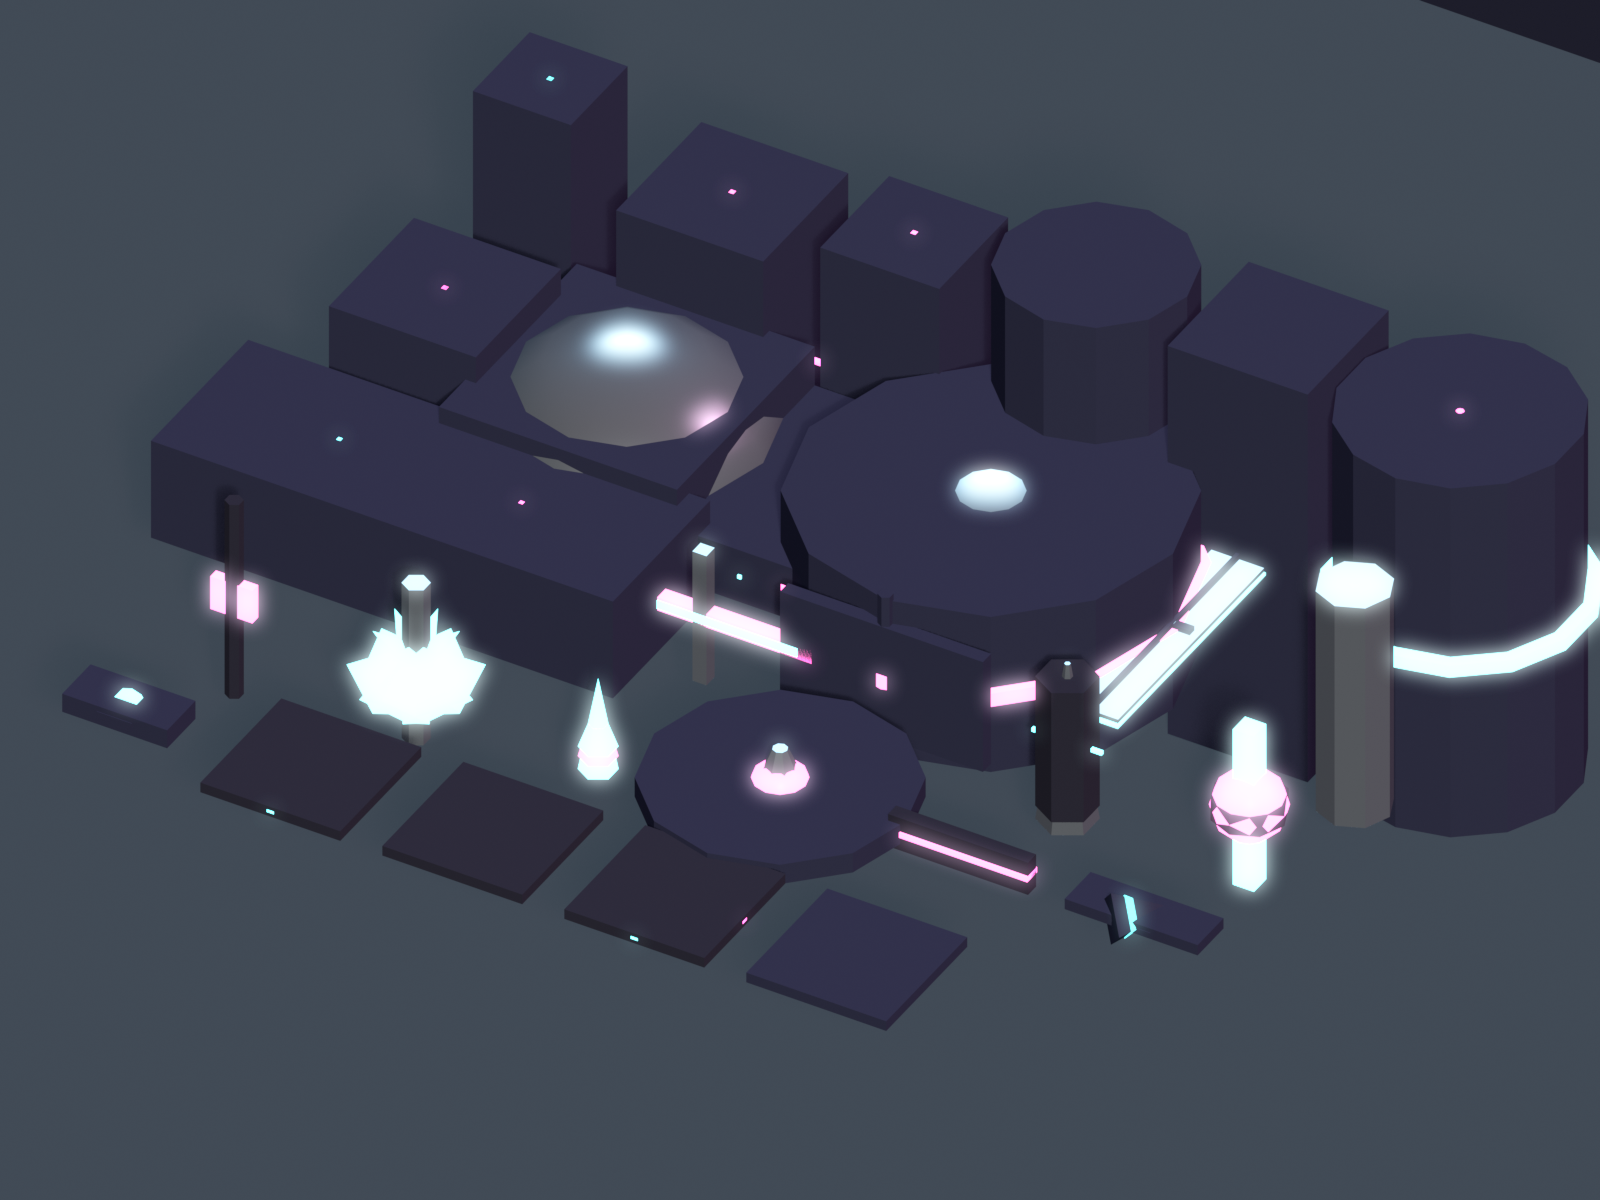
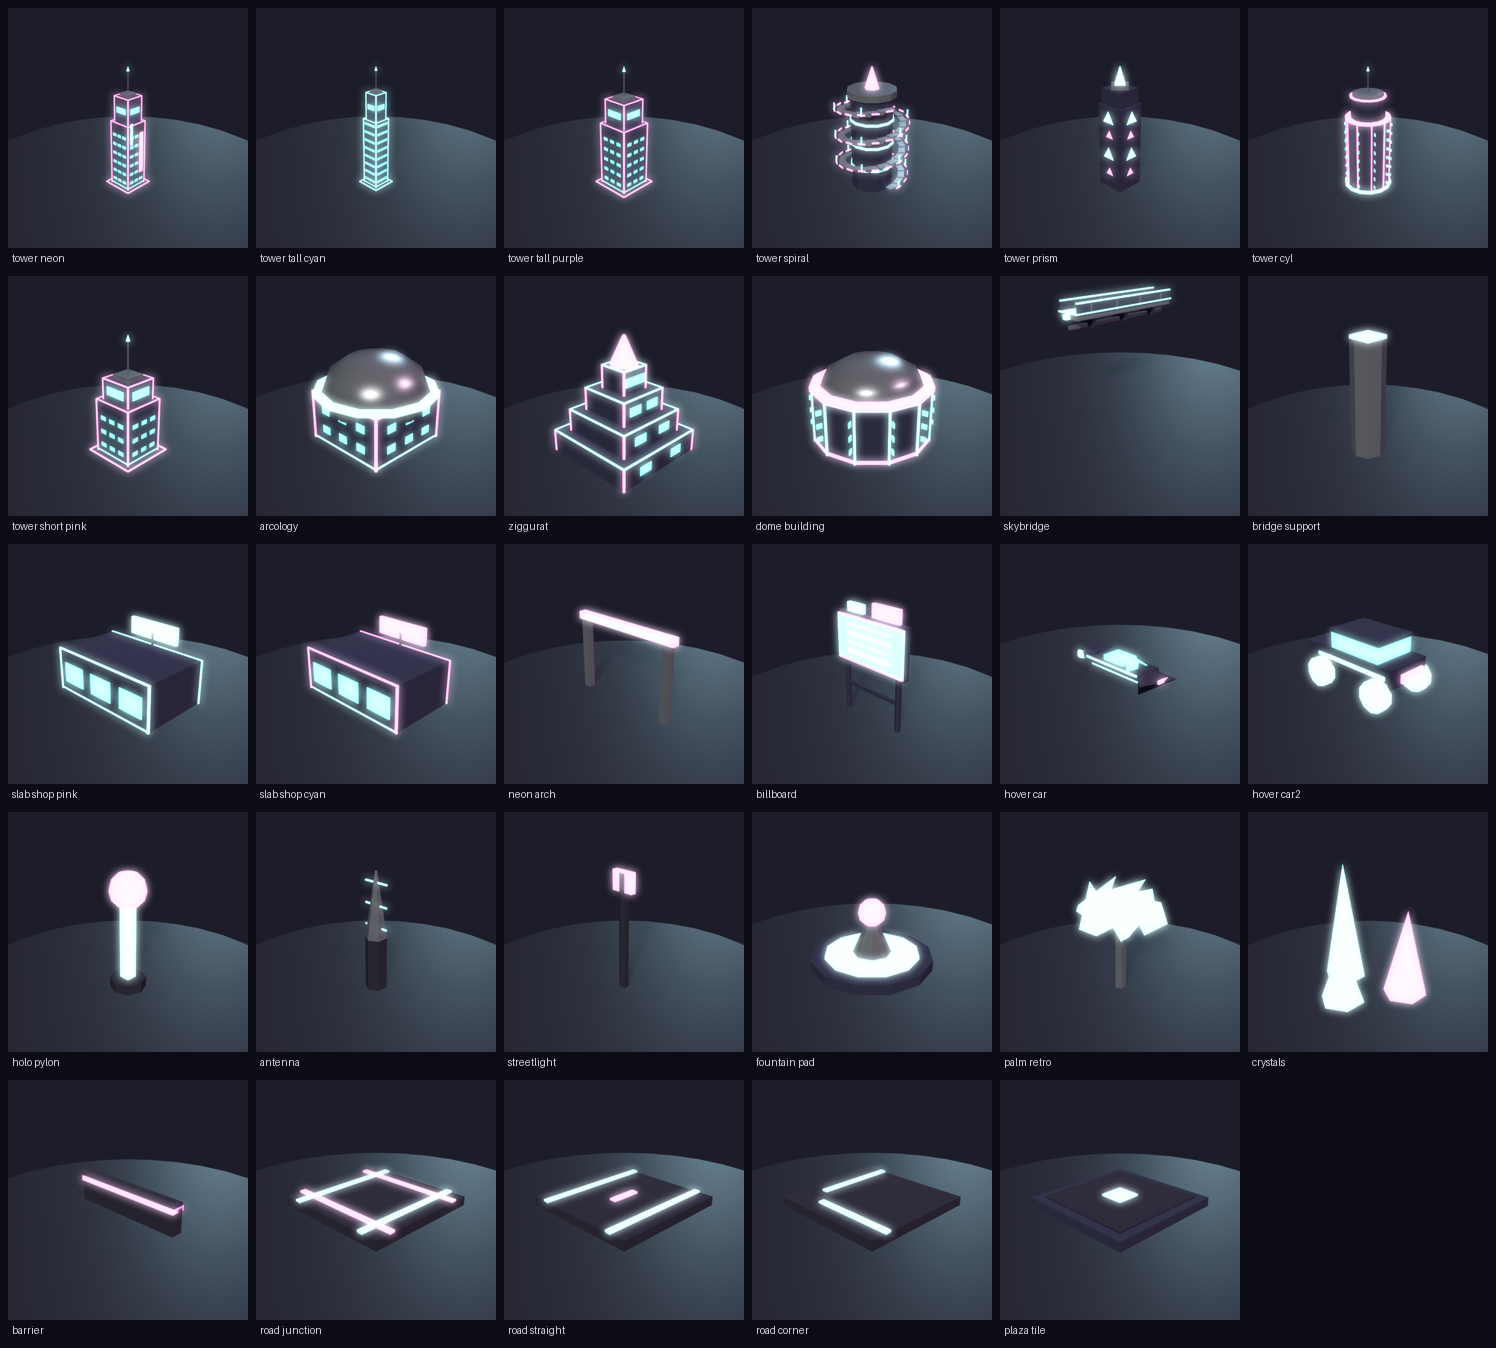
feat(dissonant_city): per-piece turntable gallery + rebuilt catalog (L0.5)
Replace the cramped 29-in-one grid with a per-piece showcase — each piece framed
and lit individually in the dark neon studio so the pink/cyan edge-outlines,
window grids and glowing bases actually read.

- turntable_render.py: 360° turntable (20 frames) per piece, dark dusk-neon studio.
- turntable_assemble.py: bloom every frame -> animated GIF + hero still per piece
  in gallery/, and a clean labelled contact-sheet -> catalog.png.
- 29 per-piece stills tracked; the 48MB of turntable GIFs are gitignored as
  regenerable (they stay on disk in gallery/ for marketplace upload).
- README/LISTING reference the gallery (GIFs for itch/Fab, stills elsewhere).

diff --git a/tools/asset_generators/dissonant_city/turntable_render.py b/tools/asset_generators/dissonant_city/turntable_render.py
@@ -1,0 +1,128 @@
+"""Per-piece turntable renders for the DissonantCity catalog gallery.
+For every exported GLB: dark dusk-neon studio, auto-frame, render a 360° turntable
+(F frames, object rotates on Z). Frames go to scratchpad; bloom + GIF assembly is
+done separately (turntable_assemble.py) since EEVEE Next has no legacy bloom.
+
+    blender --background --python turntable_render.py -- [frames] [res] [only_names_csv]
+"""
+import bpy, sys, math, mathutils, os
+
+argv = sys.argv[sys.argv.index("--") + 1:] if "--" in sys.argv else []
+FRAMES = int(argv[0]) if len(argv) > 0 else 20
+RES = int(argv[1]) if len(argv) > 1 else 512
+ONLY = set(argv[2].split(",")) if len(argv) > 2 and argv[2] else None
+
+KIT = r"D:/Projects/comfyui-toolchain/products/dissonant_city_v1/models_glb"
+OUTROOT = r"C:/Users/scher/AppData/Local/Temp/claude/D--Projects-comfyui-toolchain/0e5e1c40-e596-49a6-a43d-bfbe573d38ce/scratchpad/turntable"
+os.makedirs(OUTROOT, exist_ok=True)
+
+names = sorted(f[:-4] for f in os.listdir(KIT) if f.endswith(".glb"))
+if ONLY:
+    names = [n for n in names if n in ONLY]
+
+
+def clear():
+    bpy.ops.object.select_all(action='SELECT')
+    bpy.ops.object.delete()
+    for coll in (bpy.data.meshes, bpy.data.materials, bpy.data.lights, bpy.data.cameras):
+        for b in list(coll):
+            coll.remove(b)
+
+
+def sun(sc, e, rot, c, sh=True):
+    L = bpy.data.objects.new("S", bpy.data.lights.new("S", 'SUN'))
+    sc.collection.objects.link(L)
+    L.data.energy = e
+    L.data.angle = math.radians(8)
+    L.data.color = c
+    L.data.use_shadow = sh
+    L.rotation_euler = tuple(math.radians(a) for a in rot)
+
+
+def studio(sc):
+    # dark dusk-neon studio — dark-navy bodies stay navy, neon emission dominates
+    sc.world = bpy.data.worlds.new("W")
+    sc.world.use_nodes = True
+    bg = sc.world.node_tree.nodes["Background"]
+    bg.inputs[0].default_value = (0.035, 0.035, 0.065, 1.0)
+    bg.inputs[1].default_value = 0.35
+    sc.view_settings.view_transform = 'Standard'
+    sun(sc, 1.15, (55, 12, 25), (1.0, 0.92, 0.82))        # dim warm key
+    sun(sc, 0.70, (60, 0, 210), (0.45, 0.78, 0.98), False)  # cool fill
+    sun(sc, 0.55, (50, 0, 130), (1.0, 0.45, 0.72), False)   # pink rim
+
+
+bpy.ops.wm.read_factory_settings(use_empty=True)
+sc = bpy.context.scene
+for eng in ('BLENDER_EEVEE_NEXT', 'BLENDER_EEVEE'):
+    try:
+        sc.render.engine = eng
+        break
+    except Exception:
+        continue
+try:
+    sc.eevee.taa_render_samples = 48
+except Exception:
+    pass
+sc.render.resolution_x = RES
+sc.render.resolution_y = RES
+sc.render.film_transparent = False
+
+for name in names:
+    clear()
+    studio(sc)
+    before = set(bpy.data.objects)
+    bpy.ops.import_scene.gltf(filepath=f"{KIT}/{name}.glb")
+    roots = [o for o in bpy.data.objects if o not in before and not o.parent]
+
+    # bounds
+    mn = mathutils.Vector((1e9, 1e9, 1e9))
+    mx = mathutils.Vector((-1e9, -1e9, -1e9))
+    for r in roots:
+        for o in [r] + list(r.children_recursive):
+            if o.type != 'MESH':
+                continue
+            for c in o.bound_box:
+                w = o.matrix_world @ mathutils.Vector(c)
+                mn = mathutils.Vector((min(mn[i], w[i]) for i in range(3)))
+                mx = mathutils.Vector((max(mx[i], w[i]) for i in range(3)))
+    ctr = (mn + mx) / 2
+    size = max((mx - mn).x, (mx - mn).y, (mx - mn).z) or 2.0
+
+    # pivot at footprint center; parent roots so the object spins on Z
+    piv = bpy.data.objects.new("piv", None)
+    sc.collection.objects.link(piv)
+    piv.location = (ctr.x, ctr.y, mn.z)
+    for r in roots:
+        r.parent = piv
+        r.matrix_parent_inverse = piv.matrix_world.inverted()
+
+    # ground disc
+    bpy.ops.mesh.primitive_circle_add(radius=size * 1.5, fill_type='NGON',
+                                      location=(ctr.x, ctr.y, mn.z - 0.01))
+    gd = bpy.context.active_object
+    gm = bpy.data.materials.new("g")
+    gm.use_nodes = True
+    gm.node_tree.nodes["Principled BSDF"].inputs["Base Color"].default_value = (0.05, 0.05, 0.08, 1)
+    gd.data.materials.append(gm)
+
+    # camera: fixed 3/4, framing the piece; pivot spins under it
+    cam = bpy.data.objects.new("C", bpy.data.cameras.new("C"))
+    sc.collection.objects.link(cam)
+    sc.camera = cam
+    d = size * 1.9
+    tgt = mathutils.Vector((ctr.x, ctr.y, ctr.z))
+    cam.location = (ctr.x + d, ctr.y - d, ctr.z + d * 0.62)
+    look = tgt - mathutils.Vector(cam.location)
+    cam.rotation_euler = look.to_track_quat('-Z', 'Y').to_euler()
+    cam.data.lens = 55
+
+    outdir = os.path.join(OUTROOT, name)
+    os.makedirs(outdir, exist_ok=True)
+    for f in range(FRAMES):
+        piv.rotation_euler.z = 2 * math.pi * f / FRAMES
+        sc.render.filepath = os.path.join(outdir, f"frame_{f:03d}.png")
+        bpy.ops.render.render(write_still=True)
+    print(f"TURNTABLE {name} frames={FRAMES}")
+
+print(f"TURNTABLE ALL DONE pieces={len(names)} frames={FRAMES} res={RES}")

diff --git a/tools/asset_generators/dissonant_city/turntable_assemble.py b/tools/asset_generators/dissonant_city/turntable_assemble.py
@@ -1,0 +1,78 @@
+"""Assemble the DissonantCity per-piece turntables into the product gallery.
+Reads raw frames from scratchpad/turntable/<piece>/, applies neon bloom to every
+frame, writes an animated GIF + a hero still per piece to products/.../gallery/,
+and rebuilds a clean labeled contact-sheet (catalog.png) from the stills.
+Run with a python that has numpy+PIL (ComfyUI venv).
+"""
+import os
+import numpy as np
+from PIL import Image, ImageFilter, ImageDraw
+
+SCR = r"C:/Users/scher/AppData/Local/Temp/claude/D--Projects-comfyui-toolchain/0e5e1c40-e596-49a6-a43d-bfbe573d38ce/scratchpad/turntable"
+PROD = r"D:/Projects/comfyui-toolchain/products/dissonant_city_v1"
+GALLERY = os.path.join(PROD, "gallery")
+os.makedirs(GALLERY, exist_ok=True)
+
+# catalog piece order (big/hero pieces first), stragglers appended
+ORDER = [
+    "tower_neon", "tower_tall_cyan", "tower_tall_purple", "tower_spiral", "tower_prism", "tower_cyl",
+    "tower_short_pink", "arcology", "ziggurat", "dome_building", "skybridge", "bridge_support",
+    "slab_shop_pink", "slab_shop_cyan", "neon_arch", "billboard", "hover_car", "hover_car2",
+    "holo_pylon", "antenna", "streetlight", "fountain_pad", "palm_retro", "crystals",
+    "barrier", "road_junction", "road_straight", "road_corner", "plaza_tile",
+]
+
+THRESH, RADIUS, INTENSITY = 420.0, 8.0, 1.0
+
+
+def bloom(arr):
+    lum = arr.sum(axis=2)
+    bright = (arr * (lum > THRESH)[..., None]).astype(np.uint8)
+    glow = np.asarray(Image.fromarray(bright).filter(ImageFilter.GaussianBlur(RADIUS))).astype(np.float32) * INTENSITY
+    glow = np.clip(glow, 0, 255)
+    res = 255.0 - (255.0 - arr) * (255.0 - glow) / 255.0
+    return np.clip(res, 0, 255).astype(np.uint8)
+
+
+present = [d for d in os.listdir(SCR) if os.path.isdir(os.path.join(SCR, d))]
+names = [n for n in ORDER if n in present] + sorted(set(present) - set(ORDER))
+
+stills = {}
+for name in names:
+    fdir = os.path.join(SCR, name)
+    frame_files = sorted(f for f in os.listdir(fdir) if f.startswith("frame_") and f.endswith(".png"))
+    if not frame_files:
+        print("SKIP (no frames)", name)
+        continue
+    bloomed = [Image.fromarray(bloom(np.asarray(Image.open(os.path.join(fdir, f)).convert("RGB")).astype(np.float32)))
+               for f in frame_files]
+    # animated turntable GIF
+    gif_path = os.path.join(GALLERY, f"{name}.gif")
+    bloomed[0].save(gif_path, save_all=True, append_images=bloomed[1:], duration=90, loop=0, optimize=True)
+    # hero still (frame 0 = canonical 3/4)
+    still_path = os.path.join(GALLERY, f"{name}.png")
+    bloomed[0].save(still_path)
+    stills[name] = bloomed[0]
+    print("GALLERY", name, "gif+png")
+
+# rebuilt labeled catalog from the isolated per-piece stills (far cleaner than the grid)
+COLS = 6
+T = 240
+LAB = 20
+PAD = 8
+rows = (len(names) + COLS - 1) // COLS
+W = COLS * T + (COLS + 1) * PAD
+H = rows * (T + LAB) + (rows + 1) * PAD
+card = Image.new("RGB", (W, H), (12, 12, 20))
+d = ImageDraw.Draw(card)
+for i, name in enumerate(names):
+    if name not in stills:
+        continue
+    c, r = i % COLS, i // COLS
+    x = PAD + c * (T + PAD)
+    y = PAD + r * (T + LAB + PAD)
+    card.paste(stills[name].resize((T, T)), (x, y))
+    d.text((x + 4, y + T + 4), name.replace("_", " "), fill=(210, 210, 225))
+cat_path = os.path.join(PROD, "catalog.png")
+card.save(cat_path)
+print("CATALOG (turntable stills) ->", cat_path, card.size, "n=", len(stills))

diff --git a/products/dissonant_city_v1/LISTING.md b/products/dissonant_city_v1/LISTING.md
@@ -42,8 +42,11 @@ neon city). Describe honestly as "procedurally generated low-poly 3D".*
 
 ## Gallery (upload order)
 1. `hero.png` (cover — assembled neon city)
-2. `catalog.png` (all 29 pieces)
-3. (optional) in-engine screenshot from the Godot example
+2. `catalog.png` (all 29 pieces, labelled)
+3. A few animated **turntable GIFs** from `gallery/` (e.g. `tower_neon.gif`,
+   `dome_building.gif`, `hover_car.gif`) — great for itch.io / Fab which allow GIFs
+4. Per-piece stills from `gallery/*.png` for platforms that want static images
+5. (optional) in-engine screenshot from the Godot example
 
 ## Pre-publish checklist
 - [ ] Zip `models_glb/` (+ obj/fbx), `README.md`, `hero.png`, `catalog.png`.

diff --git a/products/dissonant_city_v1/README.md b/products/dissonant_city_v1/README.md
@@ -57,6 +57,12 @@ Towers, slabs, domes, and props drop straight onto the grid.
 
 Both scenes enable Godot's glow so the neon blooms in-engine.
 
+## Gallery
+`gallery/` holds a per-piece showcase: an animated 360° **turntable GIF** and a
+matching **still PNG** for every piece (dark neon studio, bloom). `catalog.png` is
+the labelled contact-sheet built from those stills; `hero.png` is the assembled
+city. (Turntables regenerable via `turntable_render.py` + `turntable_assemble.py`.)
+
 ## License
 Royalty-free for personal & commercial projects. Do not resell or redistribute
 the raw kit files. Pieces are procedurally generated Blender geometry — minimal
